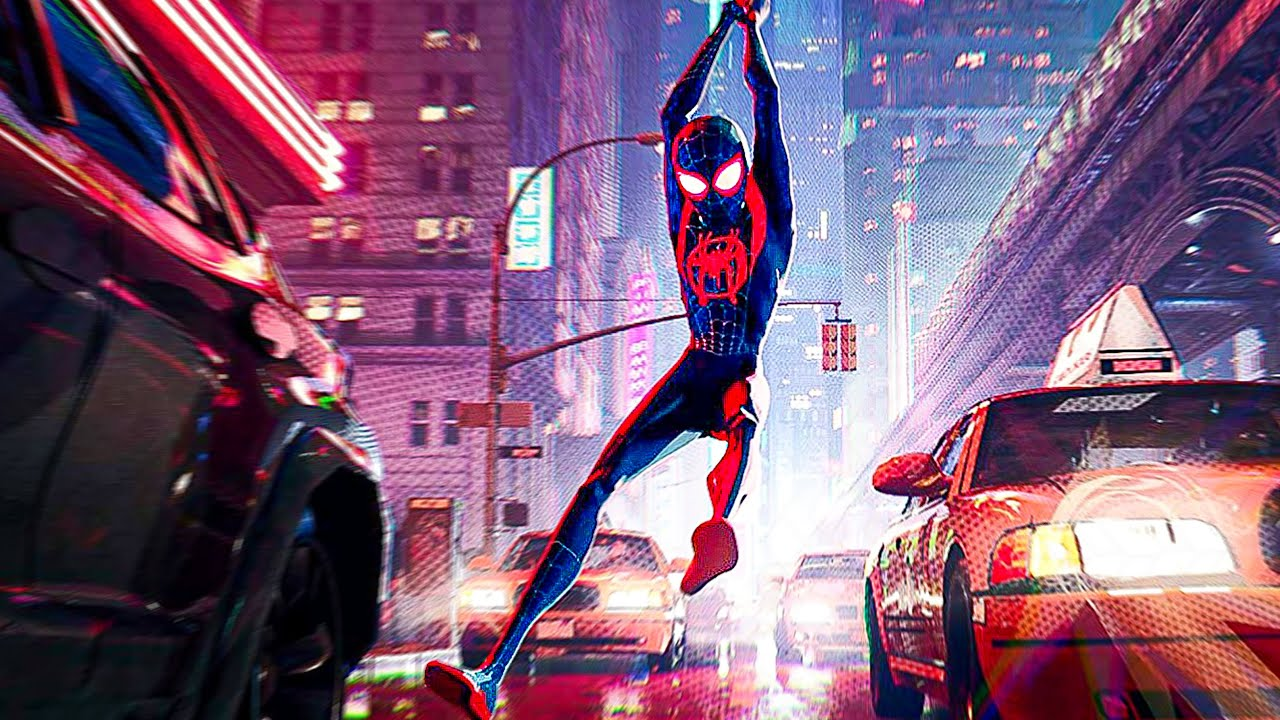
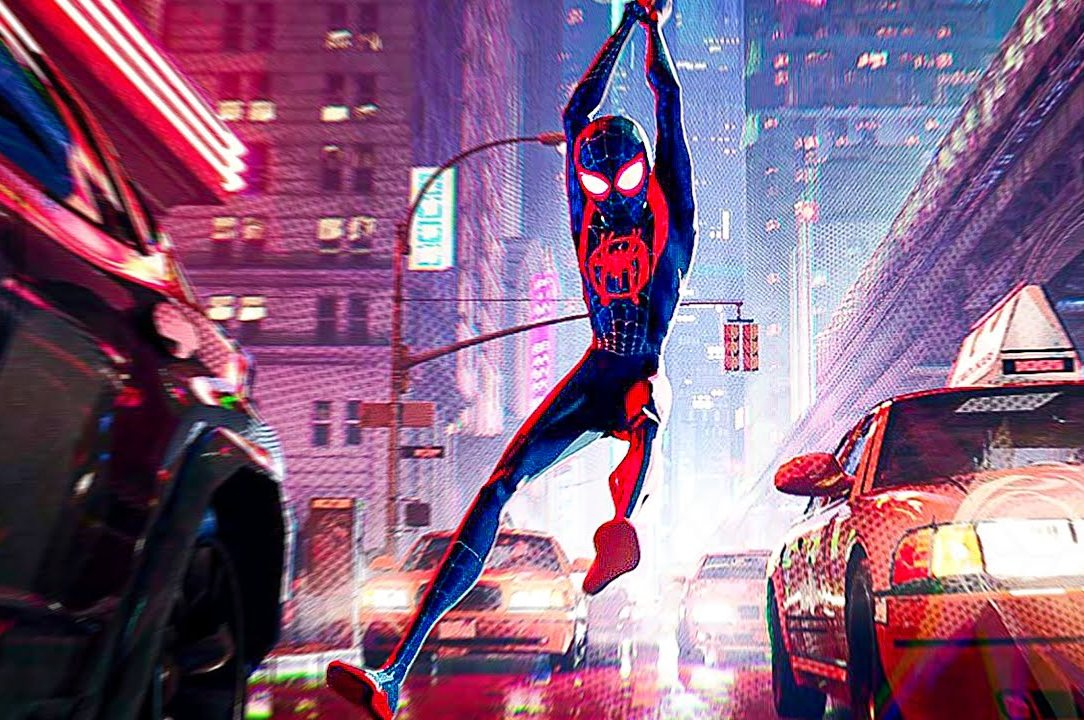
laba2

diff --git a/Laba 2/laba 2.html b/Laba 2/laba 2.html
@@ -9,17 +9,15 @@
 <body>
     <div class = "container">
         <h1>Мои любимые фильмы</h1>
-        <div class = "menu">
             <ul >
-                <li><a href="#Pirates of the Caribbean>">Пираты Карибского моря: На краю света</a></li>
-                <li><a href="#Spider-Man">Человек паук: Через вселенные</a></li>
-                <li><a href="#Pride and Prejudice">Гордость и предубеждение</a></li>
+                <li><a href="#Pirates of the Caribbean>"><b>Пираты Карибского моря: На краю света</b></a></li>
+                <li><a href="#Spider-Man"><strong>Человек паук: Через вселенные</strong></a></li>
+                <li class ="thirdFilmWeight"><a href="#Pride and Prejudice">Гордость и предубеждение</a></li>
             </ul>
-        </div>
         <article class="firstFilm">
             <h2 id="Pirates of the Caribbean">Пираты Карибского моря: На краю света</h2>
             <h3> Краткое содержание фильма</h3>
-            <p>Лорд Беккет с помощью Дэйви Джонса, капитана «Летучего голландца», безжалостно уничтожает пиратов. Джонс вынужден ему помогать, ведь его сердце находится в руках у Беккета.
+            <p class="firstDescription">Лорд Беккет с помощью Дэйви Джонса, капитана «Летучего голландца», безжалостно уничтожает пиратов. Джонс вынужден ему помогать, ведь его сердце находится в руках у Беккета.
                 Тем временем Джек Воробей находится в ловушке на краю света. Уилл и Элизабет объединяются с самым заклятым врагом Джека – капитаном Барбоссой в одну команду. Вместе они отправляются в долгое и опасное путешествие на край света, чтобы освободить Джека, а потом найти способ остановить лорда Беккета и Дэйви Джонса.</p>
             <h3>Кадры из фильма</h3>
 
@@ -30,7 +28,7 @@
             <h3>О фильме</h3>
             <table>
             <tr>
-                <td>Год: </td>
+                <td>Год:</td>
                 <td>2007</td>
             </tr>
             <tr>
@@ -42,19 +40,19 @@
                 <td>Боевик, приключение, фентези</td>
             </tr>
             <tr>
-                <td><b>Режисер: </b></td>
+                <td>Режисер:</td>
                 <td>Гор Вербински</td>
             </tr>
             </table>
         </article>
 
-        <article class="secondFilm">>
+        <article class="secondFilm">
             <h2 id="Spider-Man">Человек паук: Через вселенные</h2>
             <h3> Краткое содержание фильма</h3>
-            <p>Мы всё знаем о Питере Паркере. Он спас город, влюбился, а потом спасал город снова и снова… Но все это – в нашем измерении. А что если в результате работы гигантского коллайдера откроется окно из одного измерения в другое? Найдется ли в нем свой Человек-паук? И как он будет выглядеть? Приготовьтесь к тому, что в разных вселенных могут быть разные Люди-пауки и однажды им придется собраться вместе для борьбы с почти непобедимым врагом.
+            <p class="secondDescription">Мы всё знаем о Питере Паркере. Он спас город, влюбился, а потом спасал город снова и снова… Но все это – в нашем измерении. А что если в результате работы гигантского коллайдера откроется окно из одного измерения в другое? Найдется ли в нем свой Человек-паук? И как он будет выглядеть? Приготовьтесь к тому, что в разных вселенных могут быть разные Люди-пауки и однажды им придется собраться вместе для борьбы с почти непобедимым врагом.
                 <h3>Кадры из фильма</h3>
 
-            <img src="/Laba 2/images/4.webp" alt = "first spider"> 
+            <img src="/Laba 2/images/41.jpg" alt = "first spider"> 
             <img src="/Laba 2/images/5.jpg" alt = "second spider"> 
             <img src="/Laba 2/images/6.jpeg" alt = "third spider"> 
 
@@ -80,15 +78,15 @@
             </table>
         </article>
 
-        <article class="thirdFilm">>
+        <article class="thirdFilm">
             <h2 id="Pride and Prejudice">Гордость и предубеждение</h2>
             <h3> Краткое содержание фильма</h3>
-            <p>Англия, конец XVIII века. Родители пятерых сестер Беннет озабочены тем, чтобы удачно выдать дочерей замуж. И потому размеренная жизнь солидного семейства переворачивается вверх дном, когда по соседству появляется молодой джентльмен - мистер Бингли...
+            <p class="thirdDescription">Англия, конец XVIII века. Родители пятерых сестер Беннет озабочены тем, чтобы удачно выдать дочерей замуж. И потому размеренная жизнь солидного семейства переворачивается вверх дном, когда по соседству появляется молодой джентльмен - мистер Бингли...
                 Само собой, среди друзей нового соседа оказывается немало утонченных аристократов, которые не прочь поухаживать за очаровательными сестрами. Однако, все не так просто. Своевольная Элизабет знакомится с другом Бингли - красивым и высокомерным мистером Дарси, и между ними разгорается нешуточное противостояние, результатом которого может стать как любовь, так и ненависть...</p>
             <h3>Кадры из фильма</h3>
 
             <img src="/Laba 2/images/7.jpg" alt = "first photo"> 
-            <img src="/Laba 2/images/8.webp" alt = "second photo"> 
+            <img src="/Laba 2/images/8.jpg" alt = "second photo"> 
             <img src="/Laba 2/images/9.jpg" alt = "third photo"> 
 
             <h3>О фильме</h3>

diff --git a/Laba 2/laba 2.css b/Laba 2/laba 2.css
@@ -14,8 +14,9 @@ body{
     
 }
 
-.menu{
+a{
     color: black;
+    text-decoration: none;
 }
 
 ul{
@@ -23,13 +24,38 @@ ul{
 }
 
 .firstFilm{
+    font-family: 'Gropled';
+}
+.firstDescription{
     text-align:justify;
 }
 
 .secondFilm{
+    font-family: 'XTypewritter';
+}
+.secondDescription{
     text-align:center;
 }
 
 .thirdFilm{
+    font-family: 'Dudka';
+}
+.thirdDescription{
     text-align: right;
+}
+.thirdFilmWeight{
+    font-weight: bold;
+}
+
+@font-face {
+    font-family: 'Gropled';
+    src: url('font/ofont.ru_Gropled.ttf');
+}
+@font-face {
+    font-family: 'XTypewritter';
+    src: url('font/ofont.ru_XTypewriter.ttf');
+}
+@font-face {
+    font-family: 'Dudka';
+    src: url('font/ofont.ru_Dudka.ttf');
 }

diff --git a/index.html b/index.html
@@ -11,6 +11,9 @@
         <li>
            <a href="Laba 1/laba1.html">Лабораторная работа 1</a> 
         </li>
+        <li>
+            <a href="Laba 2/laba 2.html">Лабораторная работа 2</a>
+        </li>
     </ul>
 </body>
 </html>
